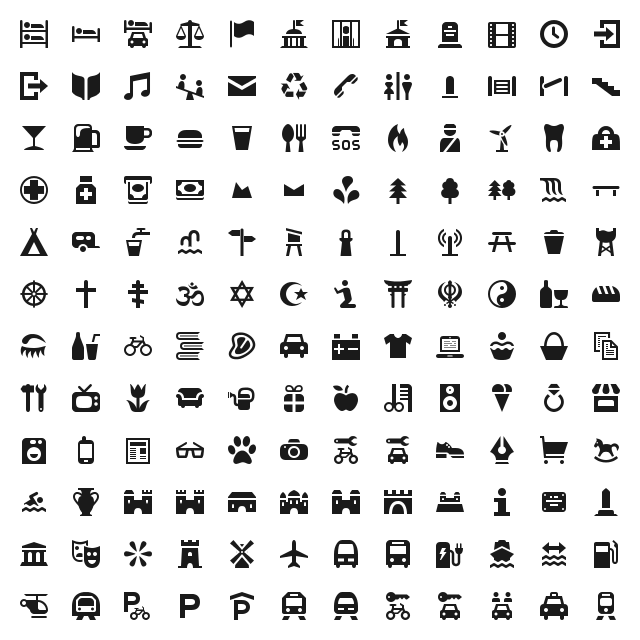
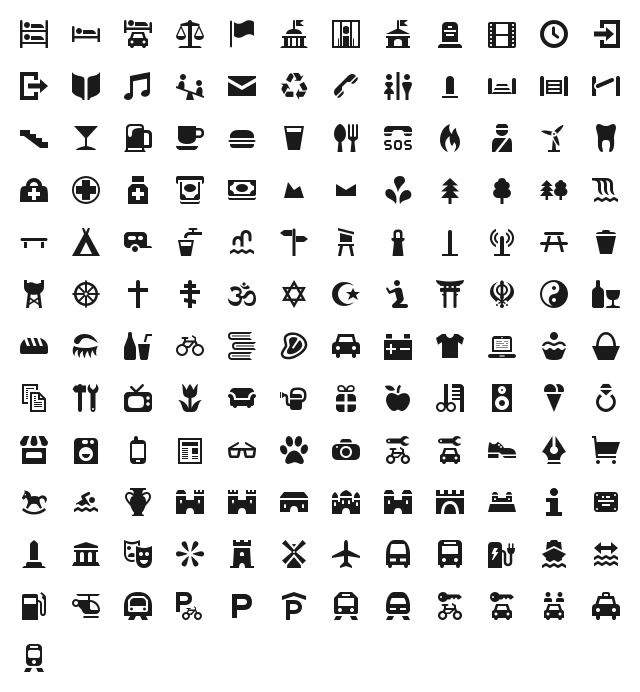
added cattle grid

diff --git a/font/osmic-preview.html b/font/osmic-preview.html
@@ -188,6 +188,7 @@
 .oc-castle-manor:before,
 .oc-castle-palace:before,
 .oc-castle-stately:before,
+.oc-cattle-grid:before,
 .oc-cemetery:before,
 .oc-charging-station:before,
 .oc-christian:before,
@@ -346,6 +347,7 @@
 .oc-castle-manor:before { content: "\f115"; }
 .oc-castle-palace:before { content: "\f116"; }
 .oc-castle-stately:before { content: "\f117"; }
+.oc-cattle-grid:before { content: "\f193"; }
 .oc-cemetery:before { content: "\f17c"; }
 .oc-charging-station:before { content: "\f16f"; }
 .oc-christian:before { content: "\f118"; }
@@ -477,7 +479,7 @@
   <body class="characters-off">
     <div id="page" class="container">
       <header>
-        <h1>osmic contains 144 glyphs:</h1>
+        <h1>osmic contains 145 glyphs:</h1>
         <a onclick="toggleCharacters(); return false;" href="#">Toggle Preview Characters</a>
       </header>
 
@@ -843,6 +845,19 @@
         <div class="usage">
           <input class="class" type="text" readonly="readonly" onClick="this.select();" value=".oc-castle-stately" />
           <input class="point" type="text" readonly="readonly" onClick="this.select();" value="&amp;#xf117;" />
+        </div>
+      </div>
+      
+      <div class="glyph">
+        <div class="preview-glyphs">
+          <span class="step size-12"><span class="letters">Pp</span><i id="oc-cattle-grid" class="oc-cattle-grid"></i></span><span class="step size-14"><span class="letters">Pp</span><i id="oc-cattle-grid" class="oc-cattle-grid"></i></span><span class="step size-16"><span class="letters">Pp</span><i id="oc-cattle-grid" class="oc-cattle-grid"></i></span><span class="step size-18"><span class="letters">Pp</span><i id="oc-cattle-grid" class="oc-cattle-grid"></i></span><span class="step size-21"><span class="letters">Pp</span><i id="oc-cattle-grid" class="oc-cattle-grid"></i></span><span class="step size-24"><span class="letters">Pp</span><i id="oc-cattle-grid" class="oc-cattle-grid"></i></span><span class="step size-36"><span class="letters">Pp</span><i id="oc-cattle-grid" class="oc-cattle-grid"></i></span><span class="step size-48"><span class="letters">Pp</span><i id="oc-cattle-grid" class="oc-cattle-grid"></i></span><span class="step size-60"><span class="letters">Pp</span><i id="oc-cattle-grid" class="oc-cattle-grid"></i></span><span class="step size-72"><span class="letters">Pp</span><i id="oc-cattle-grid" class="oc-cattle-grid"></i></span>
+        </div>
+        <div class="preview-scale">
+          <span class="step">12</span><span class="step">14</span><span class="step">16</span><span class="step">18</span><span class="step">21</span><span class="step">24</span><span class="step">36</span><span class="step">48</span><span class="step">60</span><span class="step">72</span>
+        </div>
+        <div class="usage">
+          <input class="class" type="text" readonly="readonly" onClick="this.select();" value=".oc-cattle-grid" />
+          <input class="point" type="text" readonly="readonly" onClick="this.select();" value="&amp;#xf193;" />
         </div>
       </div>
       

diff --git a/font/osmic.css b/font/osmic.css
@@ -51,6 +51,7 @@
 .oc-castle-manor:before,
 .oc-castle-palace:before,
 .oc-castle-stately:before,
+.oc-cattle-grid:before,
 .oc-cemetery:before,
 .oc-charging-station:before,
 .oc-christian:before,
@@ -209,6 +210,7 @@
 .oc-castle-manor:before { content: "\f115"; }
 .oc-castle-palace:before { content: "\f116"; }
 .oc-castle-stately:before { content: "\f117"; }
+.oc-cattle-grid:before { content: "\f193"; }
 .oc-cemetery:before { content: "\f17c"; }
 .oc-charging-station:before { content: "\f16f"; }
 .oc-christian:before { content: "\f118"; }
